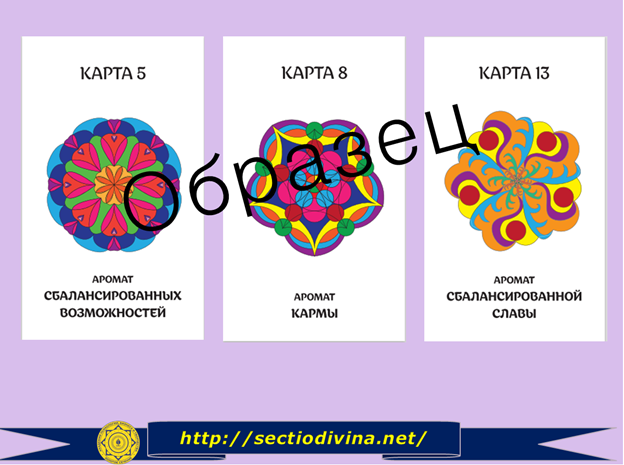
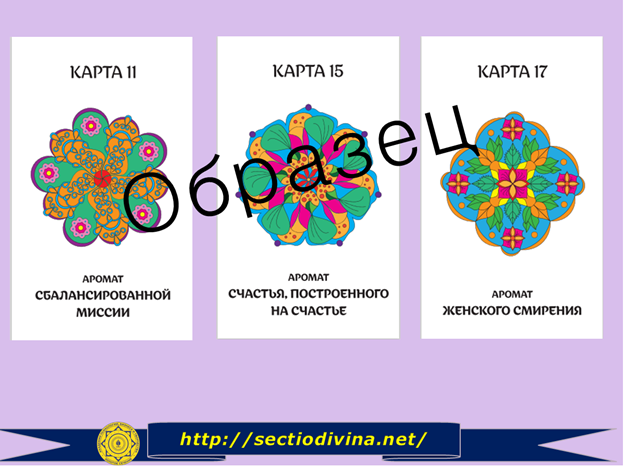
обновил картинку и текст

diff --git a/index.html b/index.html
@@ -53,10 +53,17 @@
       <div class="position-card">
         <div class="info infos1" id="info1">
           <h1 class="main-text1">Карта № 1</h1>
-          <h2 class="main-text2">Аромат сбалансированных возможностей.</h2>
+          <h2 class="main-text2">Аромат сбалансированной миссии.</h2>
           <p class="cart1">
-            * Появление этой карты в раскладе говорит о том, что сейчас вам необходимо понять, что для вас является любимым занятием. Уделяете ли вы достаточно внимания тому, что вам на самом деле интересно? Или повседневная рутина и обязательства не дают вам возможности заниматься любимым делом?  
-            *Важно понимать, что существует прямая взаимосвязь между вашим состоянием здоровья и тем, насколько вы позволяете себе быть самим собой, занимаясь любимым делом.  Позвольте себе ежедневно уделять время для своего хобби, сделайте это хорошей привычкой. Вы увидите, насколько это улучшит вашу жизнь и состояние здоровья.
+            * Появление этой карты в раскладе говорит о том, что вам необходимо определиться со своей миссией. Задумайся, о чем вы всегда мечтали? Какая деятельность, увлечения или темы вас привлекают? 
+*Например, вы можете любить искусство, спорт, науку или помощь людям. Изучайте свои интересы. Обратите внимание на области, которые вас интересуют. Что вы обычно изучаете, читаете или исследуете в свободное время? Какие темы и вопросы захватывают ваше внимание. 
+*Что может препятствовать определению миссии:
+ - Недостаток самоанализа. Многие люди не задают себе вопросы о своих ценностях, талантах и истинных желаниях. Недостаток самоанализа препятствует ясному пониманию своей миссии.
+-  Внешние ожидания и влияние. Внешние ожидания от окружающих, общества или семьи, когда мы слишком сильно ориентируемся на мнение других, оказывают давление и мешают самостоятельному определению собственной миссии. 
+- Страх неудачи. Боязнь неудачи или ошибок, страх провала или сомнения могут остановить нас от исследования и попыток определить свою миссию. 
+- Сравнение с другими. Постоянное сравнение с другими людьми и сравнение своих достижений с их успехами отвлекает от истинного понимания своей миссии. Каждый человек уникален, и его миссия может отличаться от миссии других людей. 
+- Ограничивающие убеждения и установки. Негативные убеждения о себе, такие как “Я не достоин” или “У меня нет способностей”, становятся препятствием для определения жизненной миссии. 
+* Когда вы заняты тем, что соответствует вашему предназначению, вы испытываете любовь и удовлетворение, погружаетесь в работу или деятельность без ощущения времени. Вы находитесь в состояние потока, осознаете, что ваши действия и усилия вносят положительный вклад в мир и оказывают влияние на других людей. Вы становитесь источником вдохновения для других, помогая им видеть свой собственный потенциал и возможности. 
             <div class="number-cart">
               Пишите номер карты нам в ответном письме и получите доступ к медитации на платформе геткурс.
             </div> 
@@ -70,10 +77,10 @@
   
         <div class="info infos1" id="info2">
           <h4 class="main-text3">Карта № 2</h4>
-          <h5 class="main-text4">Аромат кармы.</h5>
+          <h5 class="main-text4">Аромат счастья, построенного на счастье.</h5>
           <p class="cart2">
-            *Появление этой карты в раскладе говорит о том, что вам сейчас нужно проработать законы кармы, понимая, что они проявляются на уровне тела, ума и энергии. Все, что вы делаете на этих трех уровнях, влияет на вас и оставляет определенный отпечаток.
-*Понятие, что с «плохой кармой» сделать ничего невозможно, ошибочно. Благими намерениями, мыслями, поступками, мы можем изменить рисунок своей судьбы в лучшую сторону.
+            * Появление этой карты в раскладе говорит о том, что сейчас наступил период правильно оценить ваши семейные взаимоотношения. Как часто вы недовольны вашим ближним окружением и почему? Можете ли вы сказать, что делаете все для того, чтобы ваша семейная жизнь была счастливой, насыщенной, благополучной? 
+*Направьте вектор вашего внимания на себя. Подумайте о тех претензиях, которые часто возникают у вас. Может быть дело не в близких, а вас самих? Попробуйте быть непредвзятым, поднимитесь над ситуацией и посмотрите на себя со стороны. Всегда ли вы были правы? Подумайте о том, что бы вы могли сделать полезного для вашей семьи сейчас.
             <div class="number-cart">
               Пишите номер карты нам в ответном письме и получите доступ к медитации на платформе геткурс.
             </div> 
@@ -88,16 +95,16 @@
             Карта № 3 
           </h6>
           <h7 class="main-text6">
-            Аромат сбалансированной славы.
+            Аромат женского смирения.
           </h7>
           <p class="cart3">
-            *Появление этой карты в раскладе говорит о том, что сейчас наступил момент, когда вам необходимо разобраться со своим отношением к славе: 
-- Как вы относитесь к известности? 
-- Есть ли у вас проблемы с признанием кого-то успешным человеком? 
-- Как лично вы определяете понятие славы?
-- Есть ли момент гордыни в вашем проявлении себя в обществе?
-- Хотели бы вы стать известным и знаменитым? Если – нет, то почему? Если – да, то почему?
-*Понимание этих аспектов даст вам представление о том, какое место занимает слава в вашей жизни. Может быть, сейчас пришло время для переоценки своих возможностей, своих талантов, то время, когда вы можете проявить себя.
+            *Появление этой карты в раскладе говорит о том, что сейчас на вашу жизненную ситуацию влияет дисбаланс Инь (женское начало) -Ян (мужское начало). 
+* Инь -Ян- женское и мужское, белое и черное, горячее и холодное - они всегда вместе и лишь в гармонии этих двух составляющих можно обрести состояние истинного счастья.
+*Если вы чувствуете апатию, инертность и безразличие к желаниям и стремлениям, то пришло время гармонизировать свой Ян, пока он сам не вырвался наружу!  Направьте свое внимание на спорт, который развивает силу воли, настойчивость, способность бороться. Занимайтесь танцами, подвижными играми. Не уходите от ответственности, действуйте!
+*Если вы чувствуете, что начали зависать в мыслях, идеях, находитесь в постоянной напряженной спешке, где-то проявляете агрессию, то начинайте осознанно уходить в Инь. Становитесь ведомым, уходите в ощущения тела без мыслей и в наслаждение от процесса. Попробуйте фантазировать, использовать интуицию, осознавайте собственные и чужие эмоции. Займитесь медитацией, йогой.
+*Это не значит, что пробужденное мужское начало сделает из женщины мужчину, и наоборот. Речь идет о балансе, гармонии и осознанности. Раскрыв свои дремлющие стороны личности, вы научитесь более эффективно действовать в разных ситуациях.
+*Какой бы тип энергии не превалировал, в вас обязательно есть и энергия другого типа, и ее нужно уважать. Если вы не признаете в себе наличие и мужского и женского начала, продолжаете эксплуатировать свою первичную энергию, неизбежны моменты, которые заставят вас остановиться и ощутить противоположное состояние. 
+*Если вы не уважаете Иньскую энергию – не принимаете периоды покоя, не цените состояние сосредоточенности и бездействия, то это может привести к глубокой депрессии, когда высвободившаяся наконец-то энергия Инь охватывает человека, парализуя его неразумную активность.
             <div class="number-cart">
               Пишите номер карты нам в ответном письме и получите доступ к медитации на платформе геткурс.
             </div> 
